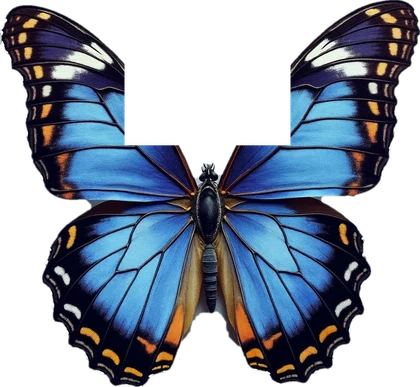
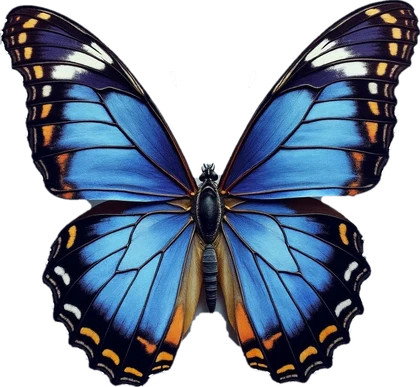
Corrige alas de la mariposa azul en Saludos

Changed region(s): [[0.5571, 0.155, 0.7119, 0.4031], [0.2786, 0.155, 0.4333, 0.4031]]

diff --git a/index.html b/index.html
@@ -7,7 +7,7 @@
 <link rel="preconnect" href="https://fonts.googleapis.com">
 <link rel="preconnect" href="https://fonts.gstatic.com" crossorigin>
 <link href="https://fonts.googleapis.com/css2?family=Baloo+2:wght@500;600;700;800&family=Lilita+One&display=swap" rel="stylesheet">
-<link rel="stylesheet" href="styles.css?v=20261122c">
+<link rel="stylesheet" href="styles.css?v=20261122d">
 </head>
 <body>
 
@@ -555,8 +555,8 @@
   <p class="feedback" id="dq-feedback" role="status" aria-live="polite"></p>
 </dialog>
 
-<script src="juegos.js?v=20261122c"></script>
-<script src="extras.js?v=20261122c"></script>
-<script src="app.js?v=20261122c"></script>
+<script src="juegos.js?v=20261122d"></script>
+<script src="extras.js?v=20261122d"></script>
+<script src="app.js?v=20261122d"></script>
 </body>
 </html>
